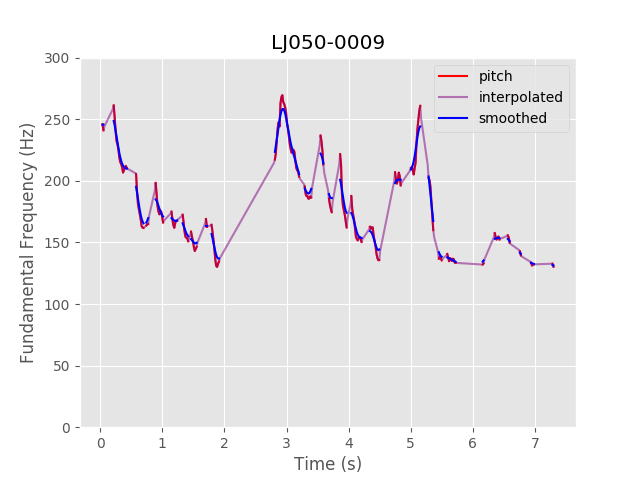
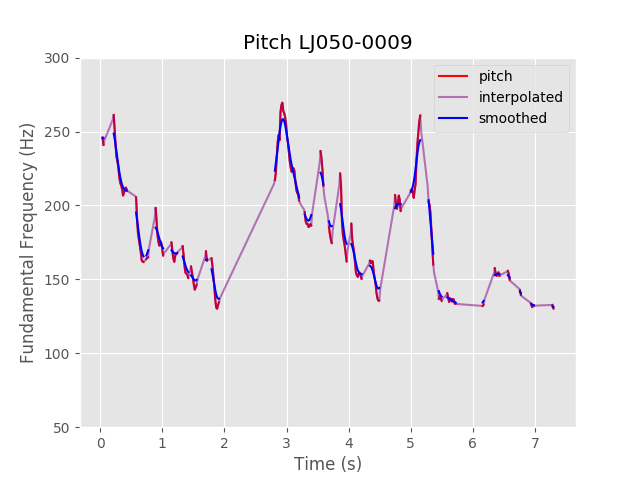
plots

diff --git a/utils.py b/utils.py
@@ -41,14 +41,14 @@ def extract_harmonics(waveform):
 # From original https://github.com/YannickJadoul/Parselmouth
 def draw_pitch(pitch, smoothed, interpolated, xaxis, settings, filepath):
     plt.clf()
-    plt.ylim(0, settings.pitch_ceiling)
+    plt.ylim(settings.pitch_floor, settings.pitch_ceiling)
     plt.ylabel("Fundamental Frequency (Hz)")
     plt.xlabel("Time (s)")
     plt.plot(xaxis, pitch, color='red', label='pitch')
     plt.plot(xaxis, interpolated, color='purple', label='interpolated', alpha=0.5)
     plt.plot(xaxis, smoothed, color='blue', label='smoothed')
     plt.legend()
-    plt.title(filepath.replace('.wav', ''))
+    plt.title('Pitch '+filepath.replace('.wav', ''))
     plt.savefig(settings.save_plots+'/f0_'+filepath.replace('wav', 'png'))
 
 def draw_intens(intens_values, xaxis, settings, filepath):
@@ -57,7 +57,7 @@ def draw_intens(intens_values, xaxis, settings, filepath):
     plt.ylabel("Intensity (dB)")
     plt.xlabel("Time (s)")
     plt.plot(xaxis, intens_values, color='red')
-    plt.title(filepath.replace('.wav', ''))
+    plt.title('Intensity '+filepath.replace('.wav', ''))
     plt.savefig(settings.save_plots+'/intens_'+filepath.replace('wav', 'png'))
 
 def draw_zcoef(coef_values, xaxis_len, settings, filepath):
@@ -66,7 +66,7 @@ def draw_zcoef(coef_values, xaxis_len, settings, filepath):
     plt.ylabel("Zero Coefficient")
     plt.xlabel("Frames")
     plt.plot(range(0, xaxis_len), coef_values, color='orange')
-    plt.title(filepath.replace('.wav', ''))
+    plt.title('Power '+filepath.replace('.wav', ''))
     plt.savefig(settings.save_plots+'/zcoef_'+filepath.replace('wav', 'png'))
 
 def draw_harmonic(harmonic_values, xaxis, settings, filepath):
@@ -75,7 +75,7 @@ def draw_harmonic(harmonic_values, xaxis, settings, filepath):
     plt.ylabel("Intensity (dB)")
     plt.xlabel("Time (s)")
     plt.plot(xaxis, harmonic_values, color='pink')
-    plt.title(filepath.replace('.wav', ''))
+    plt.title('HNR '+filepath.replace('.wav', ''))
     plt.savefig(settings.save_plots+'/harmonic_'+filepath.replace('wav', 'png'))
 
 def plot_stats(indicator, name, settings, bins=25):
